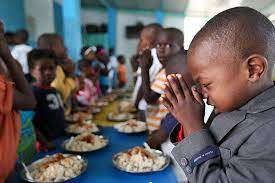
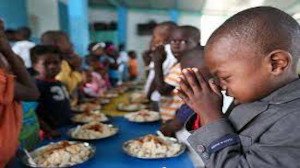
Add files via upload
Resized the images for the homepage and made them responsive to small screen.

diff --git a/Index.html b/Index.html
@@ -1,16 +1,32 @@
 <DOCTYPE html>
     <head>
+        <link rel="Stylesheet" href="Style.css">
         <title>
 
         </title>
-            <nav>
-                <a href="Index.html">Home</a>
-                <a href="About Us.html">About us</a>
-                <a href="Contact.html">Contact</a>
-            </nav>
+            
     </head>
     <body>
-        <img src="">
+        <img src="Logo Tomorrow Project.jpg" class="logo">
+        <nav class="nav">
+            <a href="Index.html">Home</a>
+            <a href="About Us.html">About us</a>
+            <a href="Contact.html">Contact</a>
+        </nav>
+        
+        
+       
+            <div class="img123">
+                <div class="img">
+                    <img src="P1.jpg"  alt="dishing up soup" style="width: 100%;">
+                </div>
+                    <div class="img">
+                        <img src="p2.jpg"   alt="eating food"  style="width: 100%;">
+                    </div>
+                        <div class="img">
+                            <img src="p3.jpg"  alt="Food Pack" style="width: 100%;">
+                        </div>    
+            </div>
     </body>
 </html>    
 

diff --git a/About Us.html b/About Us.html
@@ -1,15 +1,16 @@
 <DOCTYPE html>
     <head>
+        <link rel="Stylesheet" href="Style.css">
         <title>
 
         </title>
-            <nav>
+            <nav class="nav">
                 <a href="Index.html">Home</a>
                 <a href="About Us.html">About us</a>
                 <a href="Contact.html">Contact</a>
             </nav>
     </head>
     <body>
-        <img src="">
+        <img src="Logo Tomorrow Project.jpg" class="logo">
     </body>
 </html>    

diff --git a/Contact.html b/Contact.html
@@ -1,15 +1,16 @@
 <DOCTYPE html>
     <head>
+        <link rel="Stylesheet" href="Style.css">
         <title>
 
         </title>
-            <nav>
+            <nav class="nav">
                 <a href="Index.html">Home</a>
                 <a href="About Us.html">About us</a>
                 <a href="Contact.html">Contact</a>
             </nav>
     </head>
     <body>
-        <img src="">
+        <img src="Logo Tomorrow Project.jpg" class="logo">
     </body>
 </html>    

diff --git a/Style.css b/Style.css
@@ -1,0 +1,33 @@
+*{
+    box-sizing: border-box;
+}
+.nav{
+    float: right;
+    padding-top: 5%;
+}
+nav a{
+    color: #239267;
+    text-decoration: none;
+}
+.logo{
+    float: left;
+}
+
+.img{
+    float: left;
+    width: 22.33%;
+  padding: 15px;
+padding-top: 25%;
+}
+.img123::after{
+     content: "";
+     clear: both;
+     display: table;   
+    
+    }
+
+    @media screen and (max-width: 800px) {
+  .img {
+    width: 100%;
+  }
+}
